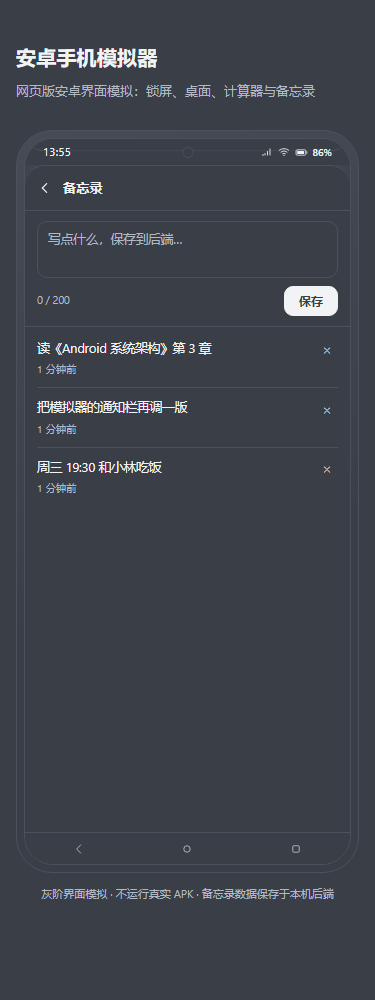
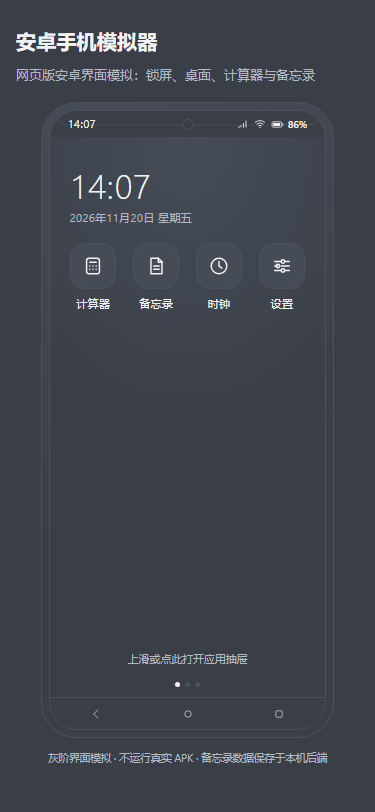
fix: 按独立验收修复锁屏绕过/状态栏拦截/相对时间不刷新，窄屏自适应视口
- 锁屏下三键导航不再能解锁：主屏不解锁、返回与最近任务提示「已锁定，上滑解锁」
- 锁屏时底部导航栏变淡（.screen.is-locked），视觉与行为一致
- 摄像头挖孔装饰 pointer-events:none，不再拦截状态栏中间点击
- 锁屏支持点击解锁（手势之外补 click 兜底）
- 备忘录相对时间每秒自动刷新，不再停留在「刚刚」
- <=560px 时手机外壳按可视高度缩放（clamp 280px 下限），一屏放下并避免手势与页面滚动抢事件
- 锁屏/桌面/状态栏 touch-action:none，保证触摸滑动解锁与下拉通知栏
- README 目录树补 .gitattributes
- deploy 交付改为「git archive + scp」发布模型：应用机实测无法访问 GitHub，不使用 git clone/pull

diff --git a/app.js b/app.js
@@ -86,6 +86,7 @@
   var appCleanup = null;
   var suppressClickUntil = 0;
   var toastTimer = 0;
+  var lastTickSecond = -1;
 
   // ---------------------------------------------------------- 工具函数
 
@@ -191,6 +192,15 @@
 
     var shadeDate = $("#shadeDate");
     if (shadeDate) shadeDate.textContent = fmtFullDate(now);
+
+    // 备忘录相对时间（刚刚 / N 分钟前）每秒刷新一次，避免长时间停留后过期
+    if (now.getSeconds() !== lastTickSecond) {
+      lastTickSecond = now.getSeconds();
+      var noteTimes = document.querySelectorAll("[data-note-ts]");
+      for (var i = 0; i < noteTimes.length; i += 1) {
+        noteTimes[i].textContent = relTime(noteTimes[i].getAttribute("data-note-ts"));
+      }
+    }
   }
 
   // ---------------------------------------------------------- 层与导航
@@ -200,6 +210,8 @@
     var lockEl = $("#lock");
     if (!lockEl) return;
     lockEl.classList.toggle("is-unlocked", !locked);
+    var screen = $("#screen");
+    if (screen) screen.classList.toggle("is-locked", locked);
     if (locked) {
       closeApp();
       closeDrawer();
@@ -274,6 +286,7 @@
   }
 
   function navBack() {
+    if (state.locked) return toast("已锁定，上滑解锁");
     if (state.shade) return closeShade();
     if (state.drawer) return closeDrawer();
     if (state.app) return closeApp();
@@ -281,13 +294,14 @@
   }
 
   function navHome() {
+    if (state.locked) return; // 锁屏下「主屏」不解锁，避免绕过锁屏
     closeShade();
     closeDrawer();
     closeApp();
-    unlock();
   }
 
   function navRecents() {
+    if (state.locked) return toast("已锁定，上滑解锁");
     toast("最近任务暂未实现（最小模拟器）");
   }
 
@@ -680,7 +694,9 @@
             '<div class="note">' +
             '<div class="note-main"><p class="note-text">' +
             escapeHTML(note.text) +
-            '</p><p class="note-time">' +
+            '</p><p class="note-time" data-note-ts="' +
+            escapeHTML(note.created_at) +
+            '">' +
             relTime(note.created_at) +
             "</p></div>" +
             '<button class="note-del" type="button" data-del="' +
@@ -975,6 +991,14 @@
       else if (state.drawer) closeDrawer();
       else if (state.app) closeApp();
     });
+
+    // 锁屏点击即解锁（滑动解锁由 pointer 手势处理；鼠标/键盘/程序化点击也能解锁）
+    var lockEl = $("#lock");
+    if (lockEl) {
+      lockEl.addEventListener("click", function () {
+        if (state.locked) unlock();
+      });
+    }
 
     var shade = $("#shade");
     if (shade) {

diff --git a/style.css b/style.css
@@ -132,6 +132,7 @@ h1 {
   border-radius: 50%;
   background: var(--bg);
   z-index: 20;
+  pointer-events: none; /* 只是装饰，不拦截状态栏点击 */
 }
 
 .screen {
@@ -240,6 +241,15 @@ h1 {
 .nav-btn svg {
   width: 14px;
   height: 14px;
+}
+
+/* 锁屏时导航栏整体变淡（点击由 JS 兜底拦截，不解锁） */
+.screen.is-locked .navbar {
+  opacity: 0.35;
+}
+
+.screen.is-locked .nav-btn {
+  cursor: default;
 }
 
 /* ---------- 层（锁屏 / 桌面 / 抽屉 / 应用 / 通知栏） ---------- */
@@ -1013,6 +1023,13 @@ h1 {
   transform: translate(-50%, 0);
 }
 
+/* 手势在被模拟的屏幕内完成，不让浏览器把纵向滑动当成页面滚动 */
+.lock,
+.home,
+.statusbar {
+  touch-action: none;
+}
+
 /* ---------- 滚动条（灰阶、细） ---------- */
 
 .notes-list,
@@ -1042,14 +1059,18 @@ h1 {
 
 @media (max-width: 560px) {
   main {
-    padding: 40px 16px 56px;
+    padding: 24px 16px 28px;
   }
 
   .head {
-    margin-bottom: 28px;
+    margin-bottom: 16px;
   }
 
+  /* 窄屏按「可视高度」缩放手机外壳，尽量一屏放下：避免页面滚动与屏幕内手势互相抢；
+     宽度下限 280px，保证 320px 宽的小屏也不会把内部网格挤坏 */
   .phone {
+    width: clamp(280px, calc((100vh - 176px) * 0.46154), 100%);
+    width: clamp(280px, calc((100svh - 176px) * 0.46154), 100%);
     padding: 7px;
     border-radius: 36px;
   }
@@ -1068,6 +1089,10 @@ h1 {
 
   .clock-now {
     font-size: 38px;
+  }
+
+  .stage-note {
+    font-size: 10.5px;
   }
 }
 

diff --git a/index.html b/index.html
@@ -21,7 +21,7 @@
     <div class="content">
       <div class="stage">
         <div class="phone" id="phone">
-          <div class="screen" id="screen">
+          <div class="screen is-locked" id="screen">
 
             <!-- ===== 状态栏 ===== -->
             <div class="statusbar" id="statusbar" role="button" tabindex="0" aria-label="下拉通知栏">

diff --git a/README.md b/README.md
@@ -68,6 +68,7 @@ phone-sim/
 │       └── mobile.png
 ├── README.md
 ├── LICENSE
+├── .gitattributes            # 统一 LF 行尾，避免 Windows 开发 / Linux 部署差异
 └── .gitignore
 ```
 
@@ -148,7 +149,7 @@ python -m unittest discover -s tests -v
 | [deploy/phone-sim.service](deploy/phone-sim.service) | systemd 单元：`phonesim` 用户、`/etc/phone-sim.env`、`/var/lib/phone-sim` 数据目录、基础加固 |
 | [deploy/caddy-phone-sim.conf](deploy/caddy-phone-sim.conf) | 网关机 Caddyfile 片段：`redir` + `handle_path /phone/*` + `reverse_proxy` |
 | [deploy/DEPLOY.md](deploy/DEPLOY.md) | 完整部署手册 |
-| [deploy/deploy.sh](deploy/deploy.sh) | 本地一键更新：推送代码 → 应用机拉取重启 → 网关机探测 `/phone/` 返回 200 |
+| [deploy/deploy.sh](deploy/deploy.sh) | 本地一键发布：git push → git archive 打包 → scp 到应用机解压重启 → 网关探测 `/phone/` |
 
 一键更新（本地 Windows Git Bash）：
 
